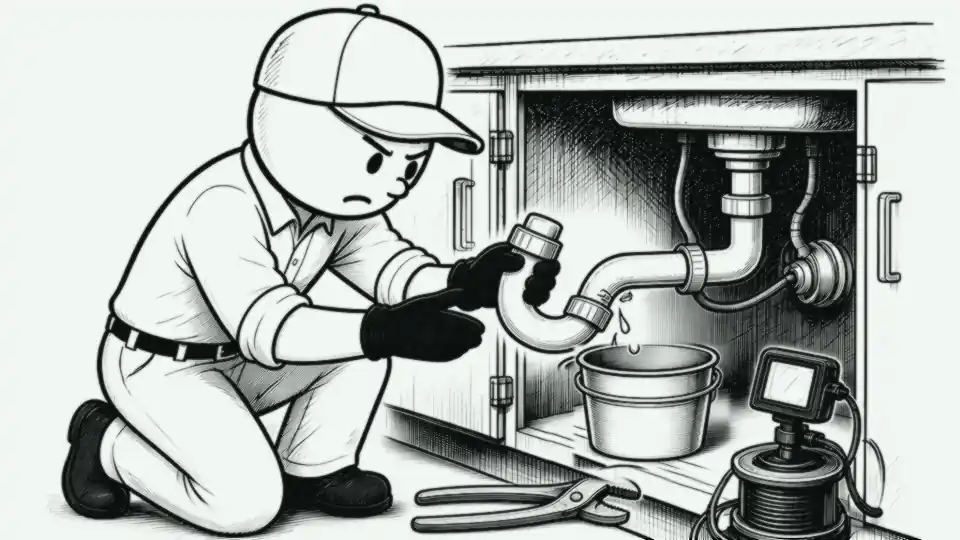
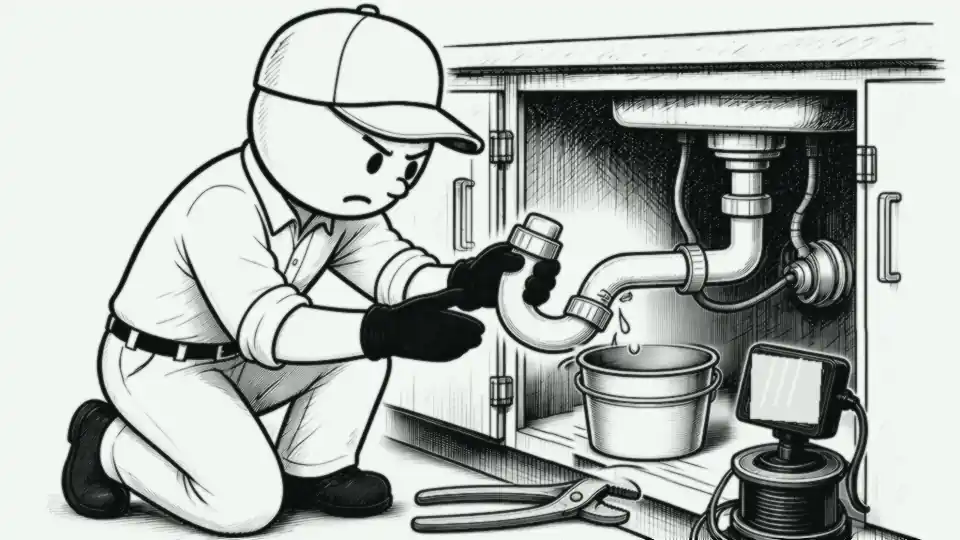
Scenes v7.2: cambranch fixes (removed trap reads as a U-bend standing in the bucket, one reel+monitor with consistent shape and tilt)

Changed region(s): [[0.75, 0.5926, 0.9688, 1.0]]

diff --git a/scenes/cambranch.js b/scenes/cambranch.js
@@ -1,1 +1,1 @@
-(window.EESceneData=window.EESceneData||{})["cambranch"]={"kind":"kf","w":960,"h":540,"title":"Branch line camera inspected","alt":"Bucket under the trap, he loosens the trap's slip nut with slip-joint pliers, sets the pliers down and drains the trap bend into the bucket, feeds the inspection camera into the open trap arm and spots the blockage on the monitor, hand-tightens the trap back on, checks the joints with a dry paper towel, and tips his cap.","frames":[{"src":"scenes/kf/cambranch-1.webp?v=7","hold":480,"tw":{"x":-3},"o":[{"x":562,"y":234,"t":"effort","a":-40}]},{"src":"scenes/kf/cambranch-2.webp?v=7","hold":480,"tw":{"y":-4}},{"src":"scenes/kf/cambranch-3.webp?v=7","hold":600,"tw":{"x":4,"ms":240},"o":[{"x":38,"y":75,"t":"word","text":"AHA!","s":49}]},{"src":"scenes/kf/cambranch-4.webp?v=7","hold":460,"tw":{"sy":0.99,"ms":200},"o":[{"x":525,"y":253,"t":"effort","a":-40}]},{"src":"scenes/kf/cambranch-5.webp?v=7","hold":480,"tw":{"y":-4}},{"src":"scenes/kf/cambranch-6.webp?v=7","hold":1000,"tw":{"y":6,"r":-0.8,"ms":300},"o":[{"x":110,"y":100,"t":"check"}]}],"placeholder":false};
+(window.EESceneData=window.EESceneData||{})["cambranch"]={"kind":"kf","w":960,"h":540,"title":"Branch line camera inspected","alt":"Bucket under the trap, he loosens the trap's slip nut with slip-joint pliers, sets the pliers down and drains the trap bend into the bucket, feeds the inspection camera into the open trap arm and spots the blockage on the monitor, hand-tightens the trap back on, checks the joints with a dry paper towel, and tips his cap.","frames":[{"src":"scenes/kf/cambranch-1.webp?v=7.2","hold":480,"tw":{"x":-3},"o":[{"x":562,"y":234,"t":"effort","a":-40}]},{"src":"scenes/kf/cambranch-2.webp?v=7.2","hold":480,"tw":{"y":-4}},{"src":"scenes/kf/cambranch-3.webp?v=7.2","hold":600,"tw":{"x":4,"ms":240},"o":[{"x":38,"y":75,"t":"word","text":"AHA!","s":49}]},{"src":"scenes/kf/cambranch-4.webp?v=7.2","hold":460,"tw":{"sy":0.99,"ms":200},"o":[{"x":525,"y":253,"t":"effort","a":-40}]},{"src":"scenes/kf/cambranch-5.webp?v=7.2","hold":480,"tw":{"y":-4}},{"src":"scenes/kf/cambranch-6.webp?v=7.2","hold":1000,"tw":{"y":6,"r":-0.8,"ms":300},"o":[{"x":110,"y":100,"t":"check"}]}],"placeholder":false};
